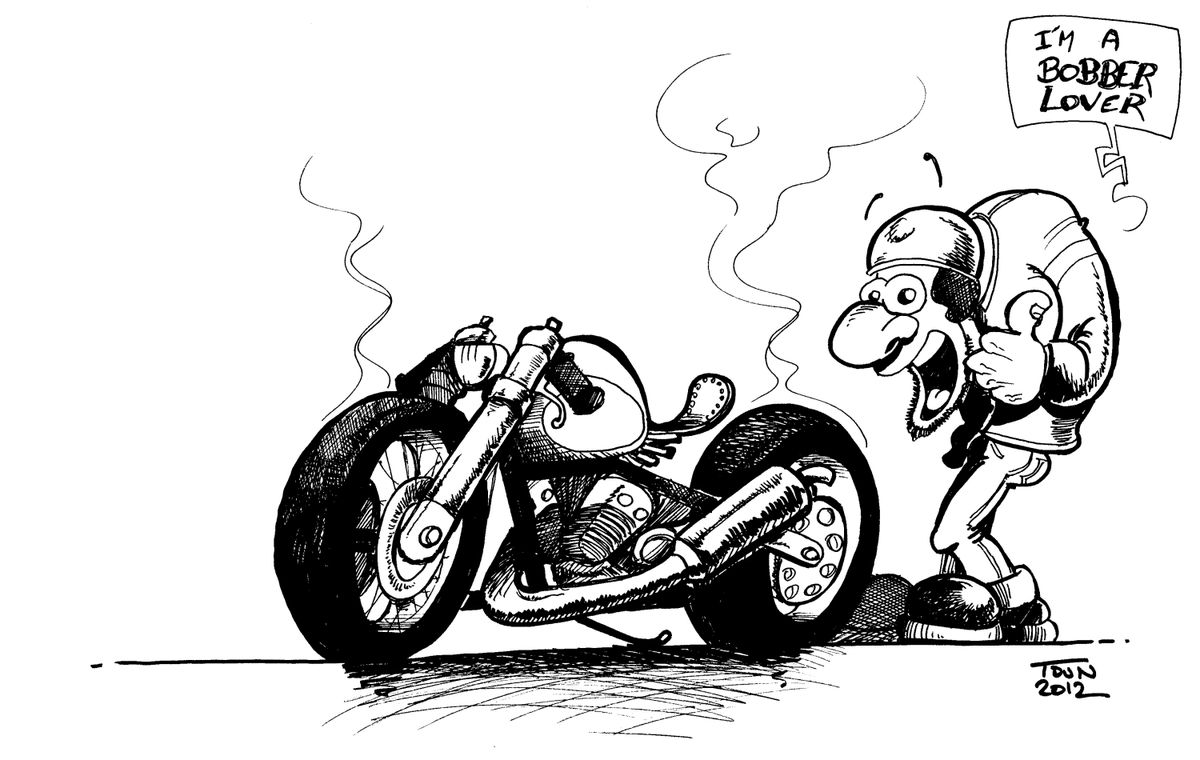
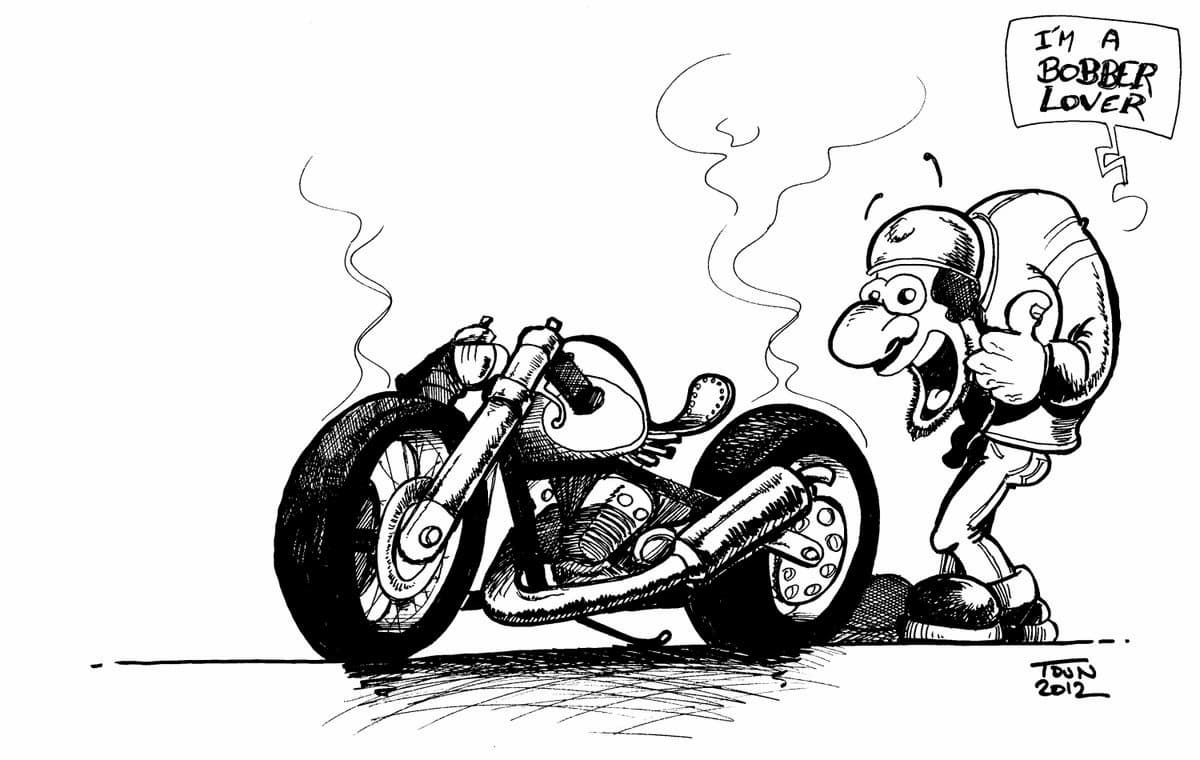
feat: replace PNG images with JPG counterparts and update references in components

diff --git a/src/components/react/SearchDialog.tsx b/src/components/react/SearchDialog.tsx
@@ -124,7 +124,7 @@ export function SearchDialog({ posts }: SearchDialogProps) {
               ) : filteredPosts.length === 0 ? (
                 <div
                   className="relative aspect-[3/2] bg-cover bg-center bg-no-repeat dark:invert"
-                  style={{ backgroundImage: 'url(/no-posts.png)' }}
+                  style={{ backgroundImage: 'url(/no-posts.jpg)' }}
                 >
                   <p
                     className="absolute right-[12%] bottom-[22%] text-xl font-medium text-accent dark:invert rotate-[-5deg] max-w-[8ch] truncate"
